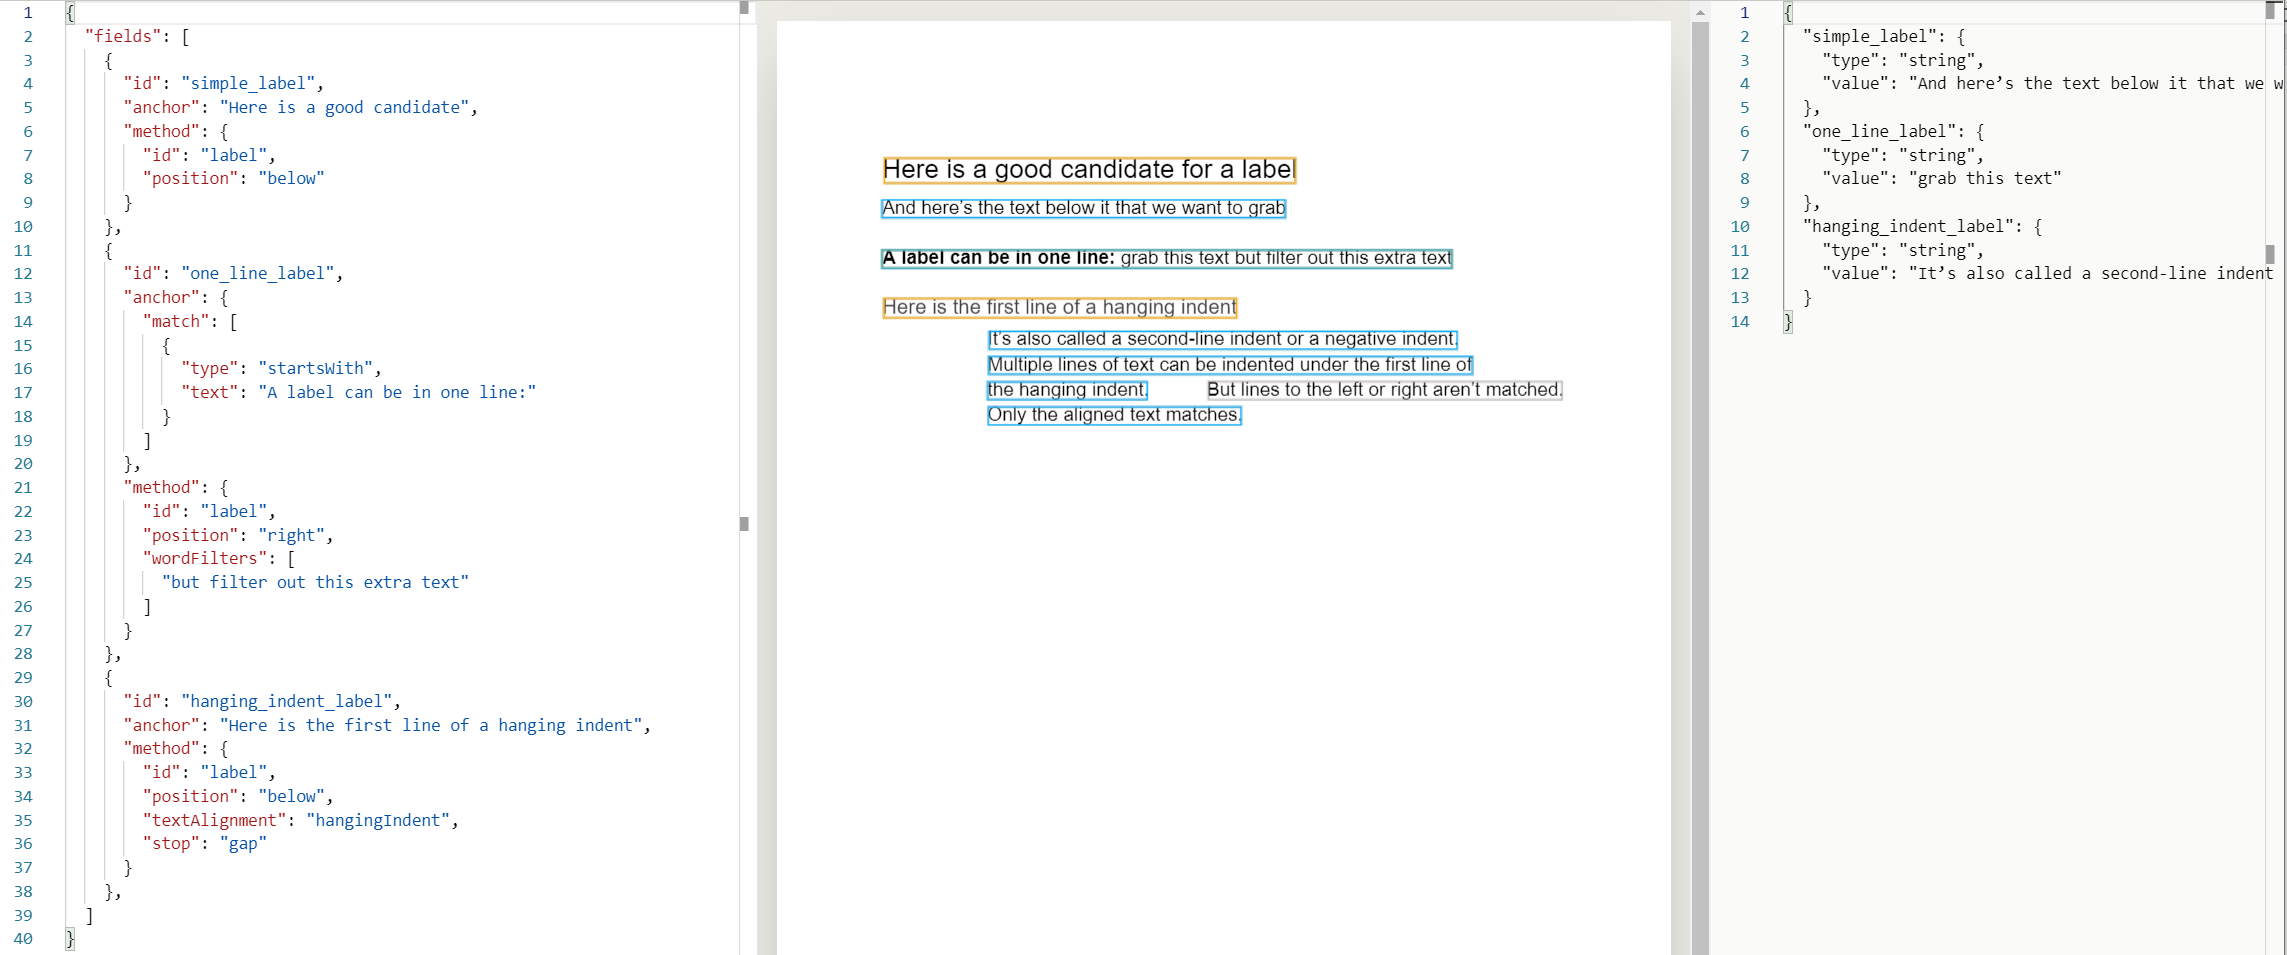
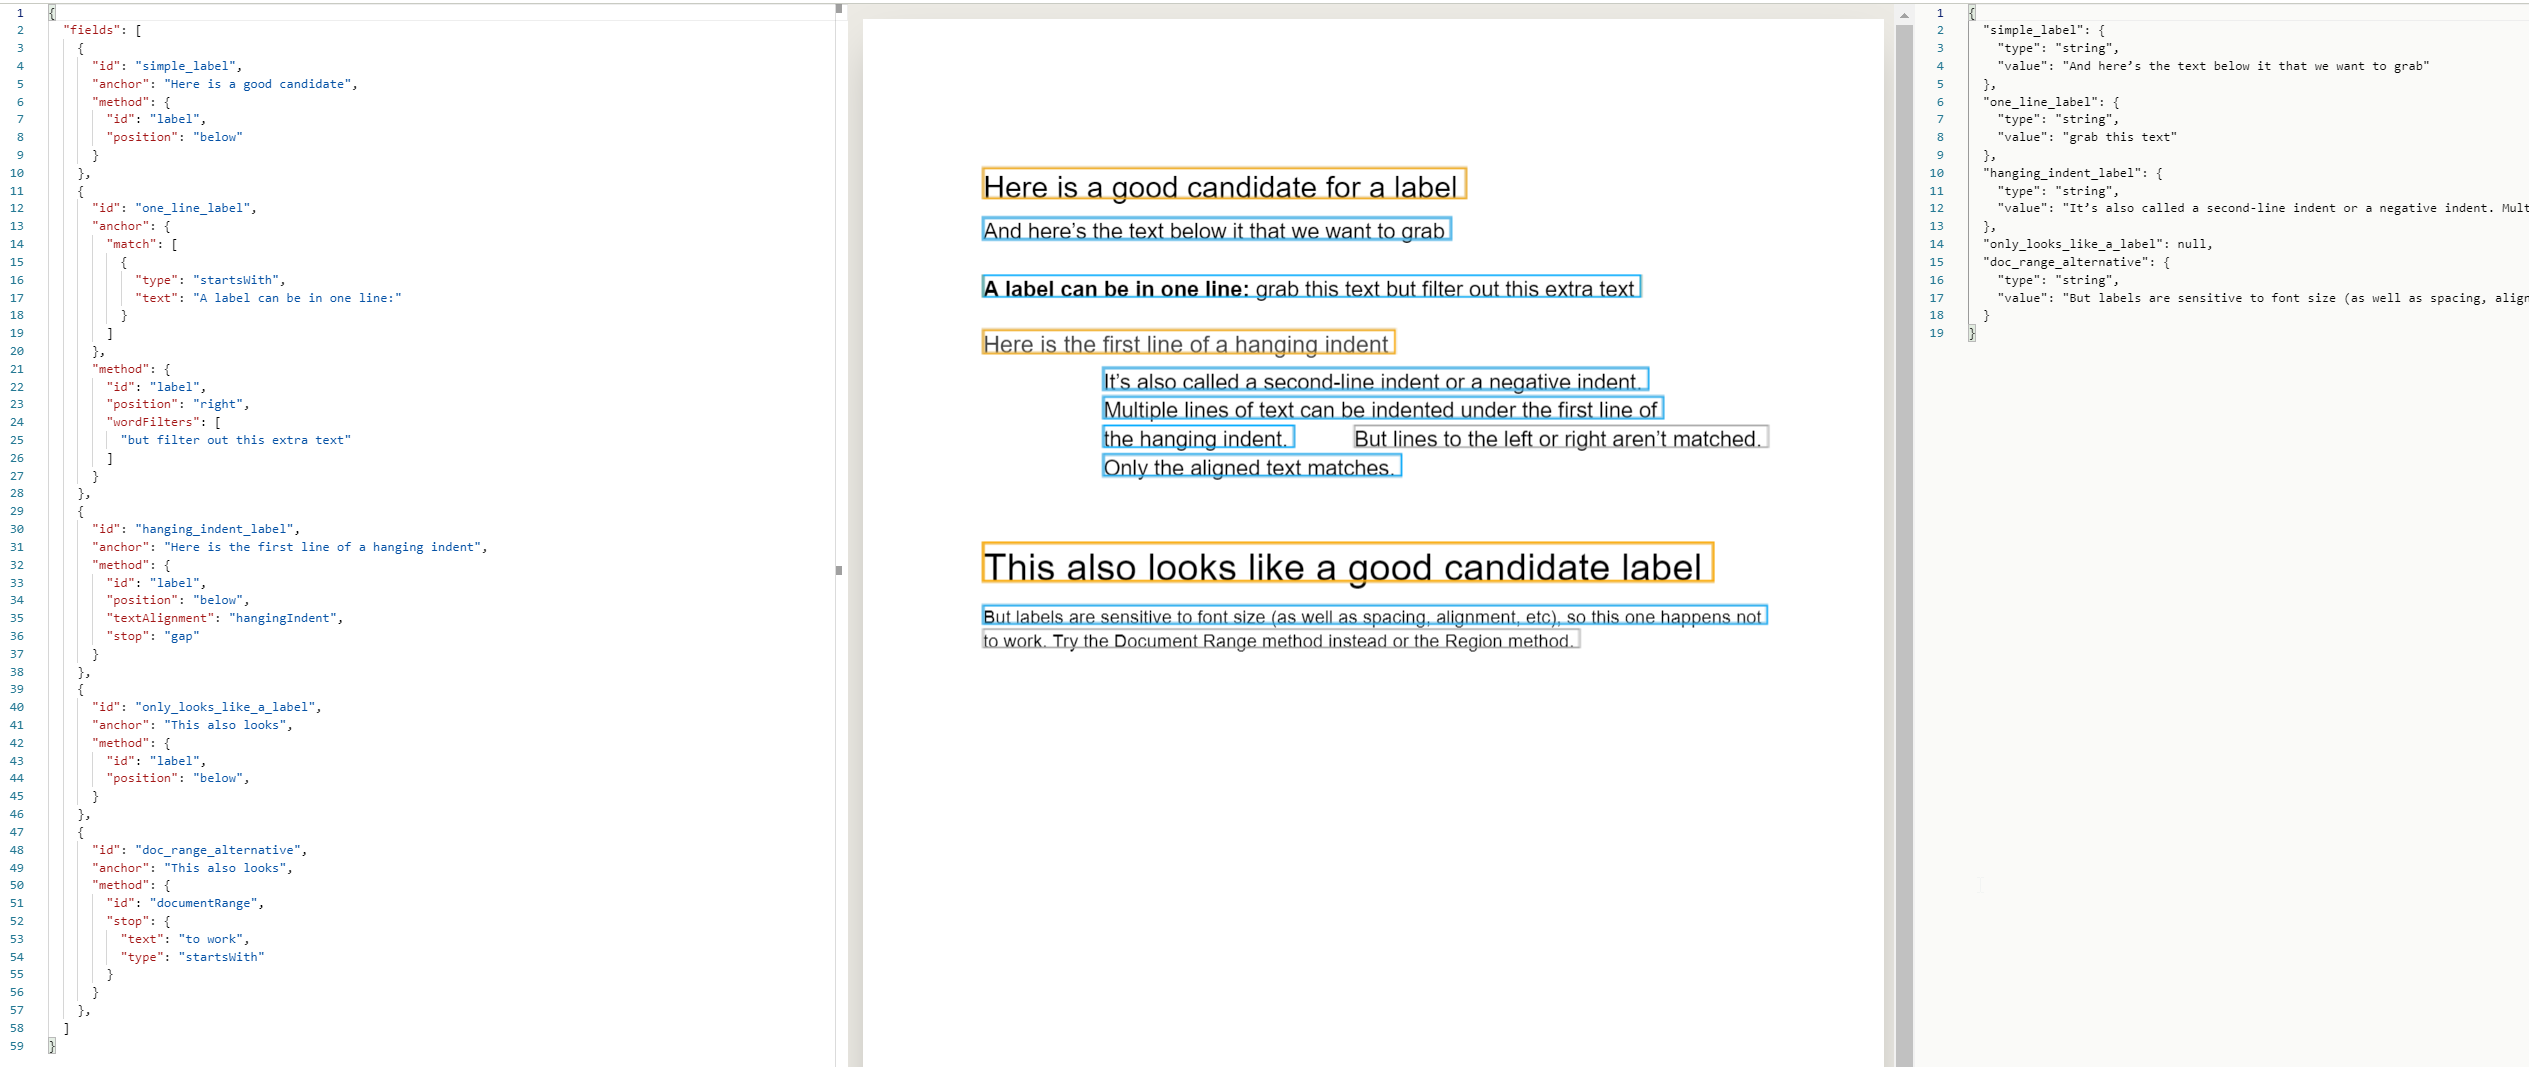
label updates

diff --git a/readme-sync/v0/senseml-reference/300 - methods/160 - label.md b/readme-sync/v0/senseml-reference/300 - methods/160 - label.md
@@ -1,44 +1,45 @@
 ---
 title: "Label"
 hidden: false
+
 ---
+
 Return text or lines proximate to the anchor point. Proximity is sensitive to font size and line spacing. 
 
-Unlike many other methods (such as Document Range), the Label method can return data from within the same line as the anchor line, when you specify horizontal matching (`position: left` or `position: right`).
-
-
+Unlike many other methods (such as Document Range), the Label method can return data that is in the *same* line as the anchor line. You can do so by specifying `position: left` or `position: right` in the Label method.
 
 Parameters
 ====
 
 **Note:** For the full list of parameters available for this method, see [Global parameters for methods](doc:method-object#section-global-parameters-for-methods). The following table only shows parameters most relevant to or specific to this method.
 
-| Key                     | Value                                                 | Description                                                  |
-| ----------------------- | ----------------------------------------------------- | ------------------------------------------------------------ |
-| id (**required**)       | `label`                                               |                                                              |
-| position (**required**) | `above`, `below`, `left`, `right`                     | What direction the target data is relative to the anchor point. |
-| stop                    | `first`, `gap`, or a Match object. default: `first`   | Use with  `"position": "below"`.  <br/>This parameter allows you to grab multiple lines following a Label, rather than the default first line.  When you specify this parameter, this method matches the first line in the specified position relative to the anchor, and then continues down the page until it meets the specified `stop`.  The multiple matched lines include those that are aligned to the left edge of the first matching line, unless you define a different alignment method using `textAlignment`. The match does **not** include lines that are positioned to the left or right of matching lines. For `gap` , this method stops when it reaches a vertical gap of 0.2 inches, and for a Match object, this method stops when it reaches a matching line. |
-| textAlignment           | `left`, `right`, or `hangingIndent`. default: `left`. | Only applies to `"position": "below"` or `"position": "above"`. <br/>Determines whether to match lines vertically aligned to the anchor at the `left` edge or the `right` edge of the anchor boundary. <br/> `hangingIndent` only applies to  `"position": "below"`.  The top of the boundary of the hangingIndent candidate needs to be within 0.3 inches of the bottom of the boundary of the matching anchor line.  There is no restriction on the x-axis for the hangingIndent. |
-| includeAnchor           | boolean. default: `false`                             | Whether to include the anchor text in the method output. For horizontal matching (`position: left` or `position: right`) the method returns the remainder of the anchor line if its final `Matcher` didn't match the full line. For example, if the anchor line is "Premium: $500" and the `Matcher` is `{ "type": "startsWith", "text": "Premium: " }`, `label` returns "$500". |
-
-
+| Key                     | Value                                                 | Description                                                                                                                                                                                                                                                                                                                                                                                                                                                                                                                                                                                                                                                                                                                                                                                                      |
+| ----------------------- | ----------------------------------------------------- | ---------------------------------------------------------------------------------------------------------------------------------------------------------------------------------------------------------------------------------------------------------------------------------------------------------------------------------------------------------------------------------------------------------------------------------------------------------------------------------------------------------------------------------------------------------------------------------------------------------------------------------------------------------------------------------------------------------------------------------------------------------------------------------------------------------------- |
+| id (**required**)       | `label`                                               |                                                                                                                                                                                                                                                                                                                                                                                                                                                                                                                                                                                                                                                                                                                                                                                                                  |
+| position (**required**) | `above`, `below`, `left`, `right`                     | What direction the target data is relative to the anchor point. For horizontal matching (`"position": "left"` or `"position": "right"`), this method returns the remainder of the anchor line. For example, if the anchor line is <br/>"Comprehensive Premium: $500" <br/>and the Match object is<br/> `{ "type": "includes", "text": "Premium: " }`<br/> The Label method returns "$500".                                                                                                                                                                                                                                                                                                                                                                                                                       |
+| stop                    | `first`, `gap`, or a Match object. default: `first`   | Use with  `"position": "below"`.  <br/>Specifies to grab multiple lines following a label, rather than the default first line.  When you specify this parameter, this method matches the first line in the specified position relative to the anchor, and then continues down the page until it meets the specified `stop`. <br/>The multiple matched lines include those that are aligned to the left edge of the first matching line, unless you define a different alignment method using  the Text Alignment parameter. The match does **not** include lines that are positioned to the left or right of matching lines. <br/>For `gap` , this method stops when it reaches a vertical gap of 0.2 inches between line boundaries, and for a Match object, this method stops when it reaches a matching line. |
+| textAlignment           | `left`, `right`, or `hangingIndent`. default: `left`. | Only applies to `"position": "below"` or `"position": "above"`. <br/>Determines whether to match lines aligned on an y-axis along either the anchor's left or right edge. <br/> `hangingIndent` only applies to  `"position": "below"`.  The anchor's and the first indented line's boundaries must be within 0.3 inches of each other. There are no restrictions for the size of the indent.                                                                                                                                                                                                                                                                                                                                                                                                                    |
+| includeAnchor           | boolean. default: `false`                             | Whether to include the anchor text in the output. For example, if you specify a single line using the Starts With and Ends With parameters in a match array in the anchor,  SenseML actually returns `null` unless you set this parameter to true.                                                                                                                                                                                                                                                                                                                                                                                                                                                                                                                                                               |
 
 Examples
 ====
 
-
-
 The following image shows examples of various labels in the Sensible app: 
 
-
-
 ![](https://raw.githubusercontent.com/sensible-hq/sensible-docs/main/readme-sync/assets/v0/images/label_examples.png)
+
+You can try out this example yourself in the Sensible app using the following downloadable PDF and config:
+
+| Example PDF for label method | [Download link](https://raw.githubusercontent.com/sensible-hq/sensible-docs/main/readme-sync/assets/v0/pdfs/example_label.pdf) |
+| ---------------------------- | ------------------------------------------------------------------------------------------------------------------------------ |
 
 The preceding example shows fields that do the following:
 
 1. The  `simple_label` field grabs a line below a label.
 2. The `one_line_label` field grabs text to the right of a label on the same line, and filters out an unwanted string. 
-3. The `hanging_indent_label` field grabs multiple lines of text by using a `stop` parameter.  The method grabs indented lines (`"textAlignment": "hangingIndent"`) , and the match does **not** include lines to the left or right of matching aligned lines. For example, in the PDF, the text "But lines to the left or right aren't matched" gets parsed as a separate line because of the horizontal gap between it and its adjacent line. 
+3. The `hanging_indent_label` field grabs multiple lines of text by using a Stop parameter.  The method grabs indented lines (`"textAlignment": "hangingIndent"`) , and the match does **not** include lines to the left or right of matching aligned lines. For example, in the PDF, the text "But lines to the left or right aren't matched" gets parsed as a separate line because of the horizontal gap between it and its adjacent line. 
+4. The `only_looks_like_a_label` field demonstrates that labels are sensitive to font size and other issues by returning null.
+5. The `doc_range_alternative` fields shows an alternate way to grab the line targeted by `only_looks_like_a_label`.
 
 ```json
 {
@@ -79,7 +80,25 @@ The preceding example shows fields that do the following:
         "stop": "gap"
       }
     },
+    {
+      "id": "only_looks_like_a_label",
+      "anchor": "This also looks",
+      "method": {
+        "id": "label",
+        "position": "below",
+      }
+    },
+    {
+      "id": "doc_range_alternative",
+      "anchor": "This also looks",
+      "method": {
+        "id": "documentRange",
+        "stop": {
+          "text": "to work",
+          "type": "startsWith"
+        }
+      }
+    },
   ]
 }
 ```
-
